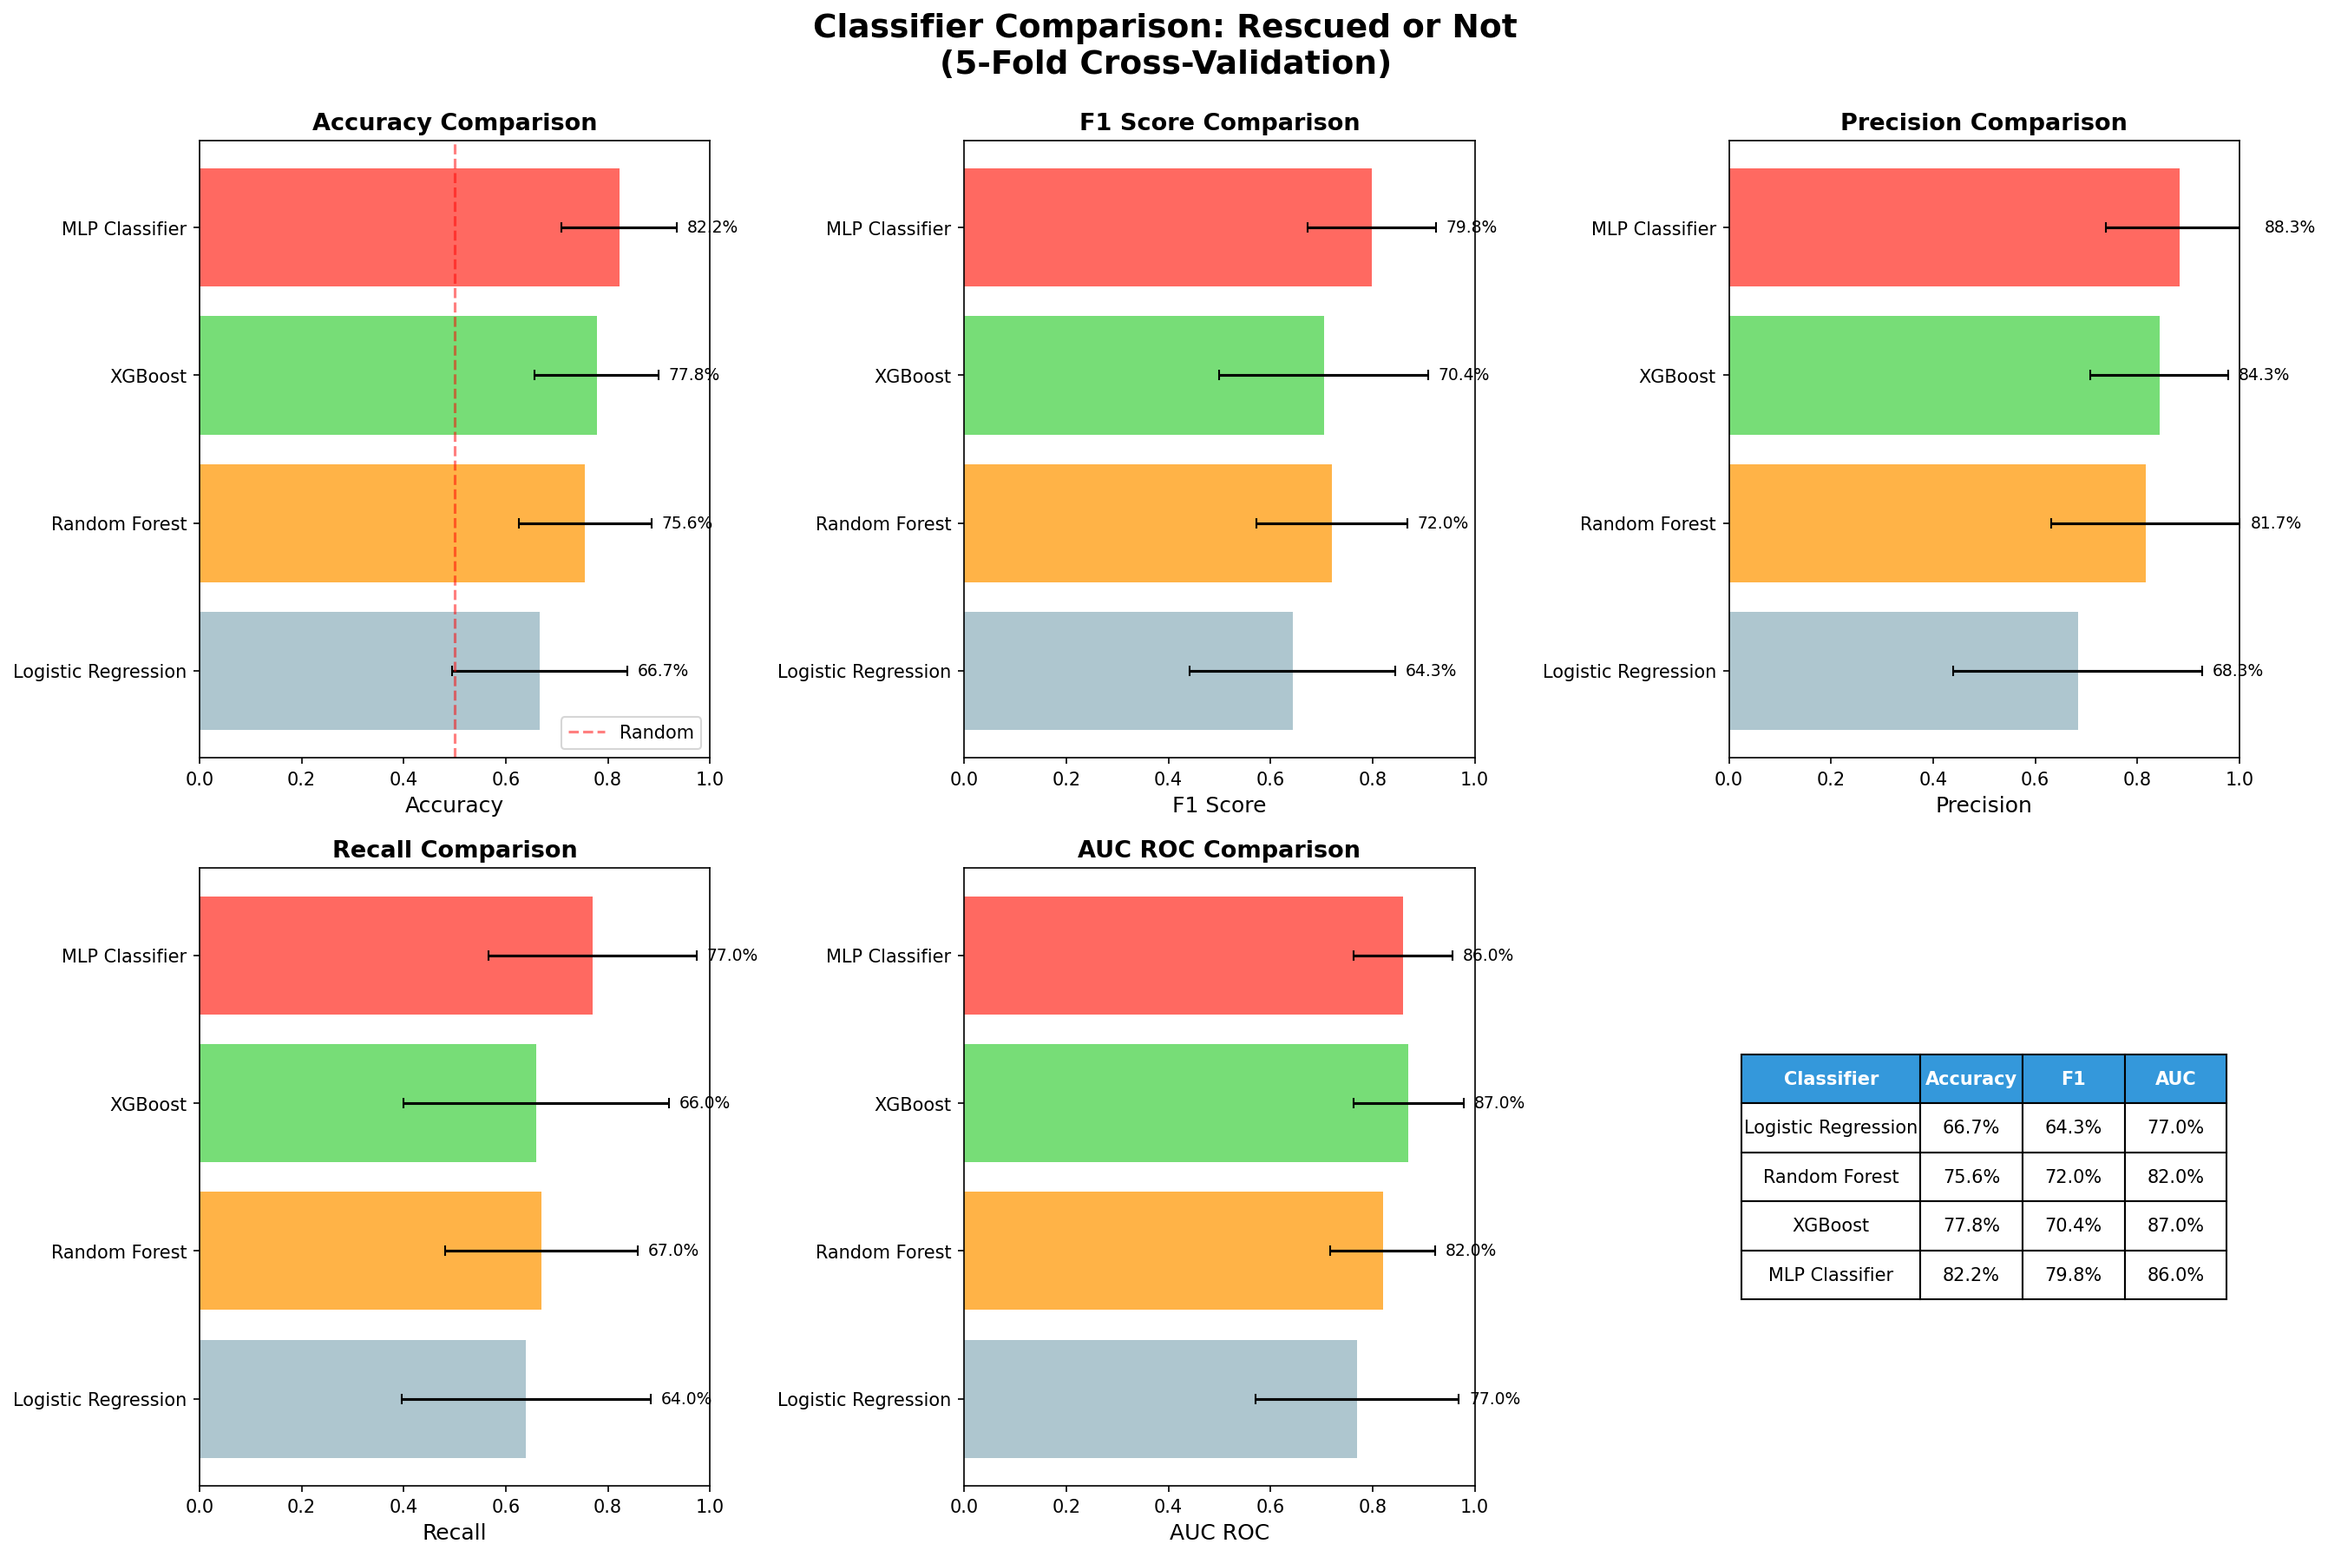
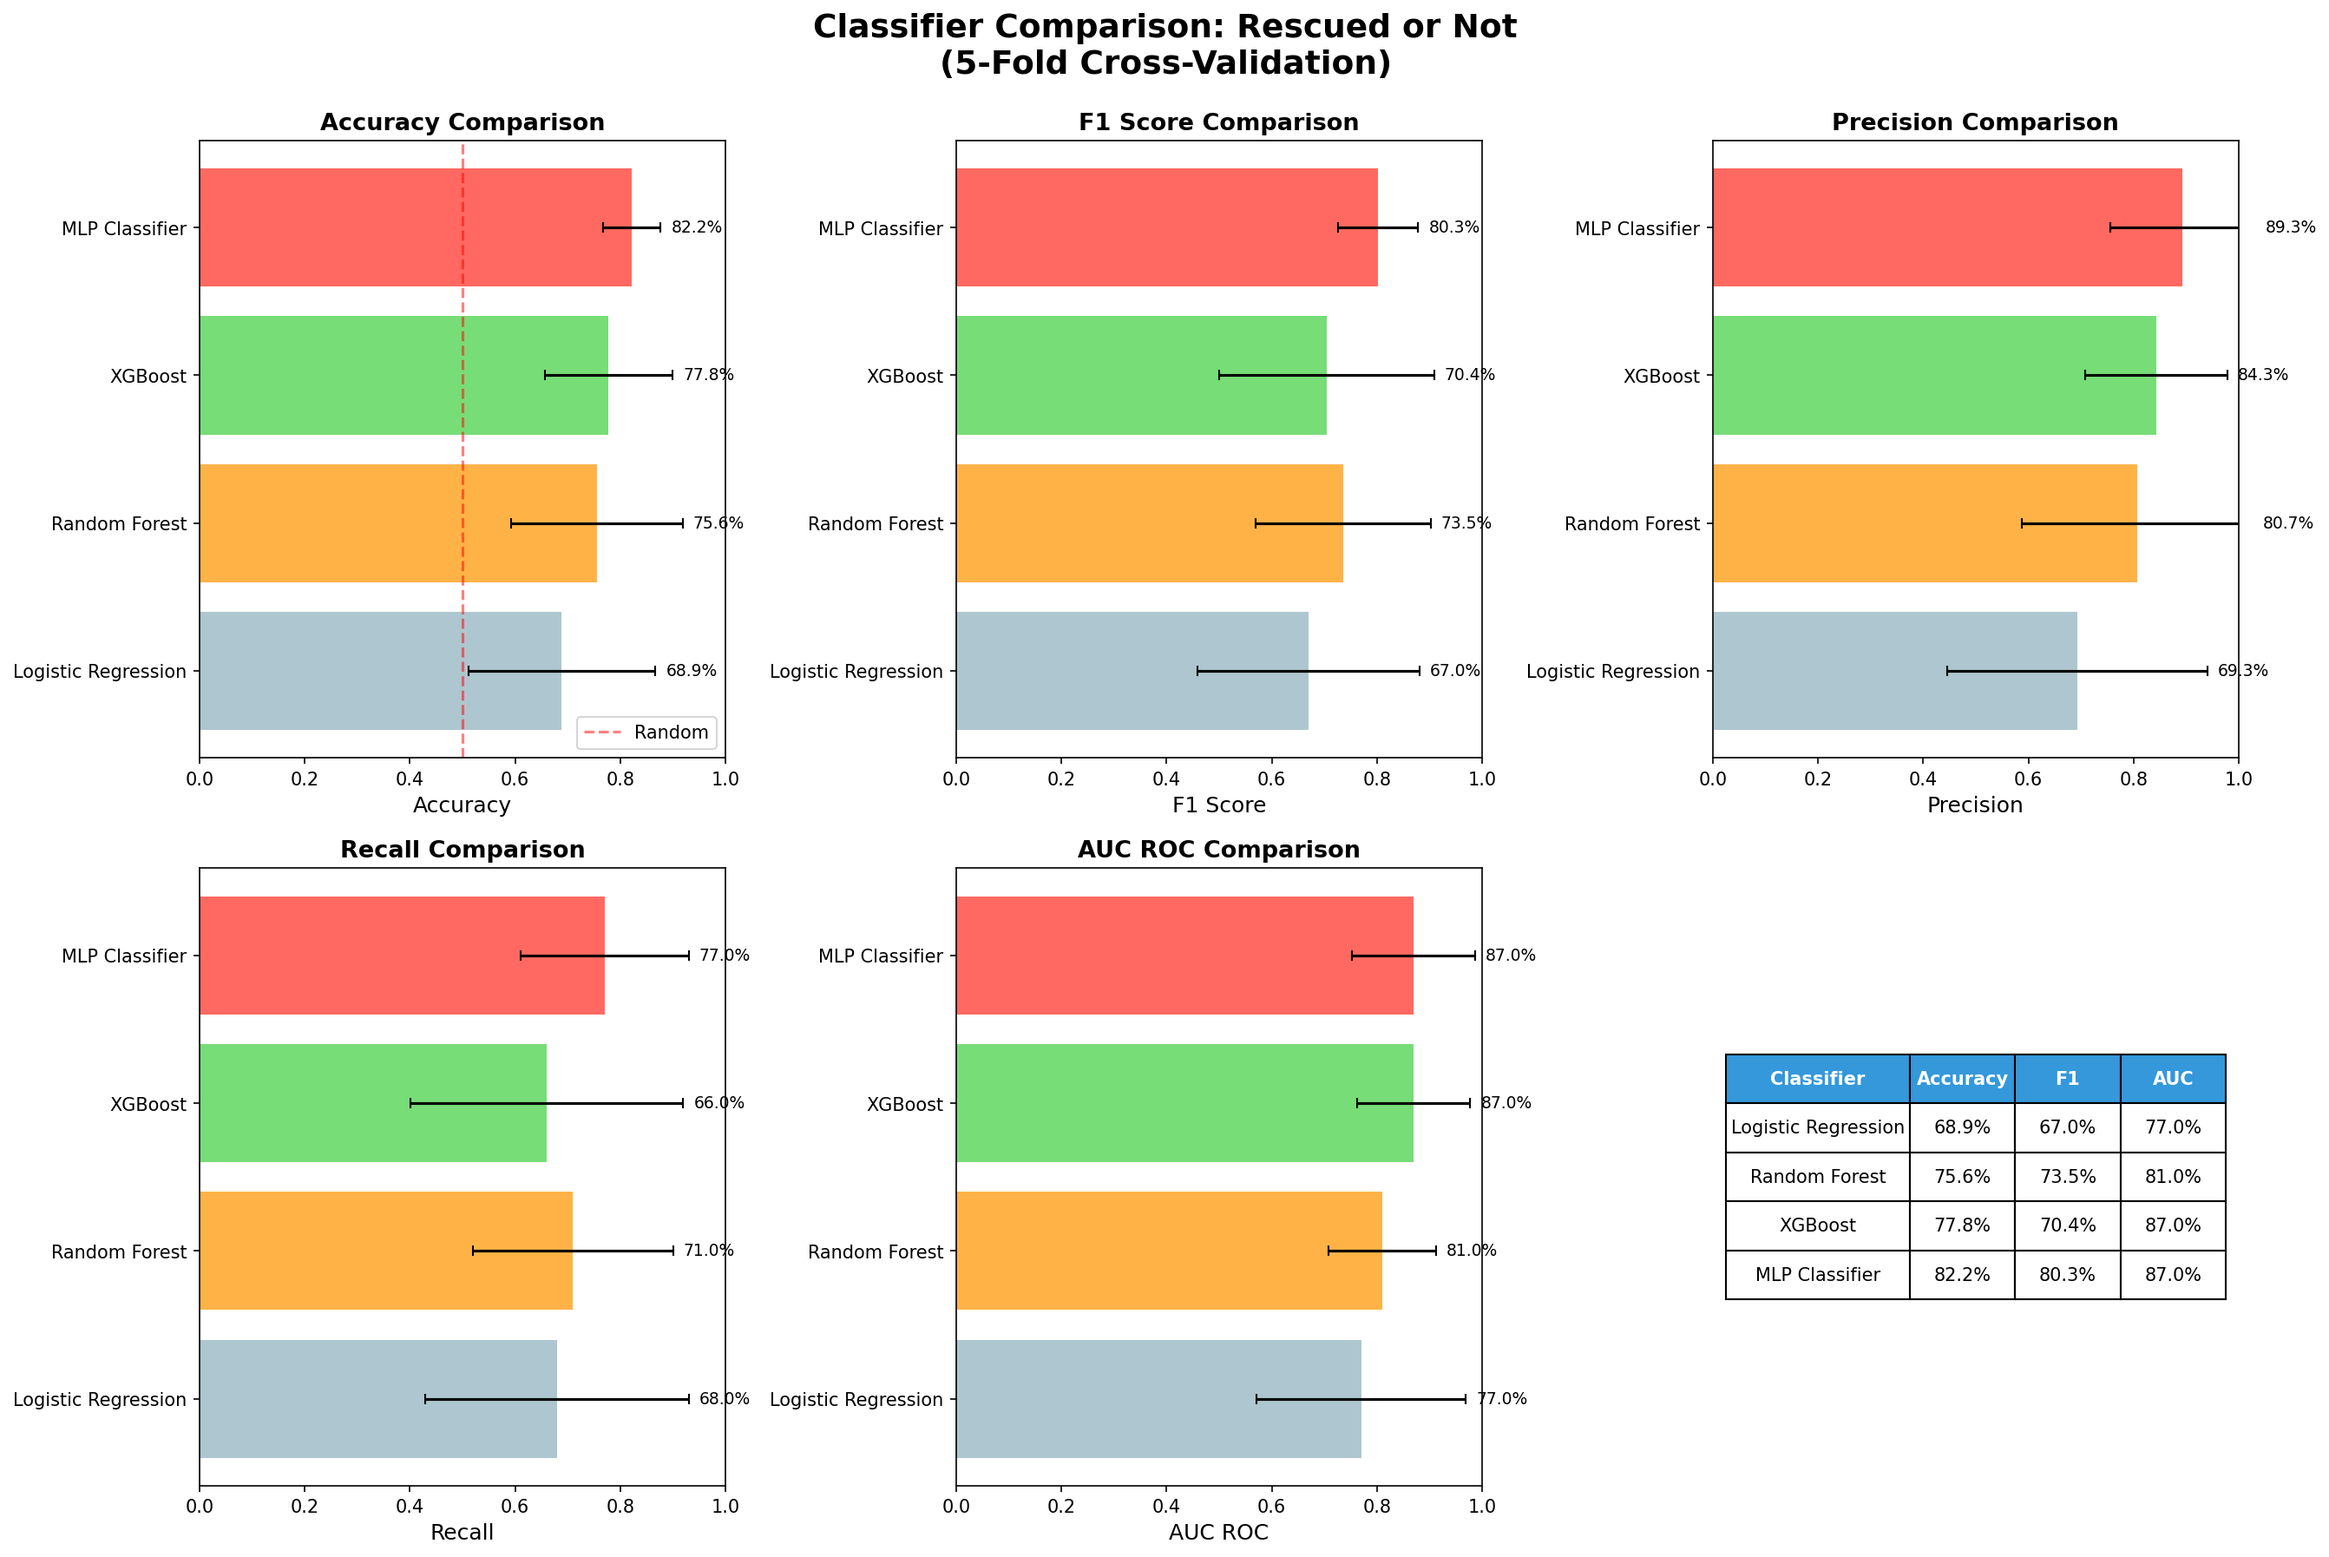
Results: Regularized Classifier Comparison (Full Dataset, Fixed -Col bug)

diff --git a/src/classification/comprehensive_classifier_comparison.py b/src/classification/comprehensive_classifier_comparison.py
@@ -48,7 +48,7 @@ except ImportError:
 warnings.filterwarnings('ignore')
 
 # Configuration
-FEATURES_FILE = 'outputs/Advanced_Features_Restored.csv'
+FEATURES_FILE = 'outputs/Advanced_Features_Raw_Final.csv'
 METADATA_FILE = 'data/Book1.xlsx'
 OUTPUT_DIR = Path('classification_results/comparison')
 
@@ -89,7 +89,7 @@ def extract_collagen_status(filename):
     filename = str(filename).lower()
     if '+coll' in filename or '+col' in filename:
         return 1  # Collagen
-    elif '-coll' in filename or 'nocoll' in filename or 'no coll' in filename:
+    elif '-coll' in filename or '-col' in filename or 'nocoll' in filename or 'no coll' in filename:
         return 0  # No Collagen
     return None
 
@@ -140,6 +140,10 @@ def load_and_aggregate_features(healthy_ids, taa_ids):
     
     # Load features
     df = pd.read_csv(FEATURES_FILE)
+    
+    # Compatibility: "Filename" (new) vs "CellName" (old)
+    if 'CellName' not in df.columns and 'Filename' in df.columns:
+        df.rename(columns={'Filename': 'CellName'}, inplace=True)
     
     # Extract IDs and collagen status
     df['Numeric_ID'] = df['CellName'].apply(extract_subject_id)

diff --git a/src/classification/regularized_classifier_comparison.py b/src/classification/regularized_classifier_comparison.py
@@ -48,7 +48,7 @@ OUTPUT_DIR = Path('classification_results/regularized')
 OUTPUT_DIR.mkdir(parents=True, exist_ok=True)
 
 # Explicitly override in case import failing to propogate
-FEATURES_FILE = 'outputs/Advanced_Features_Restored.csv'
+FEATURES_FILE = 'outputs/Advanced_Features_Raw_Final.csv'
 
 def get_regularized_classifiers():
     """Return dictionary of STRICTLY REGULARIZED classifiers."""
